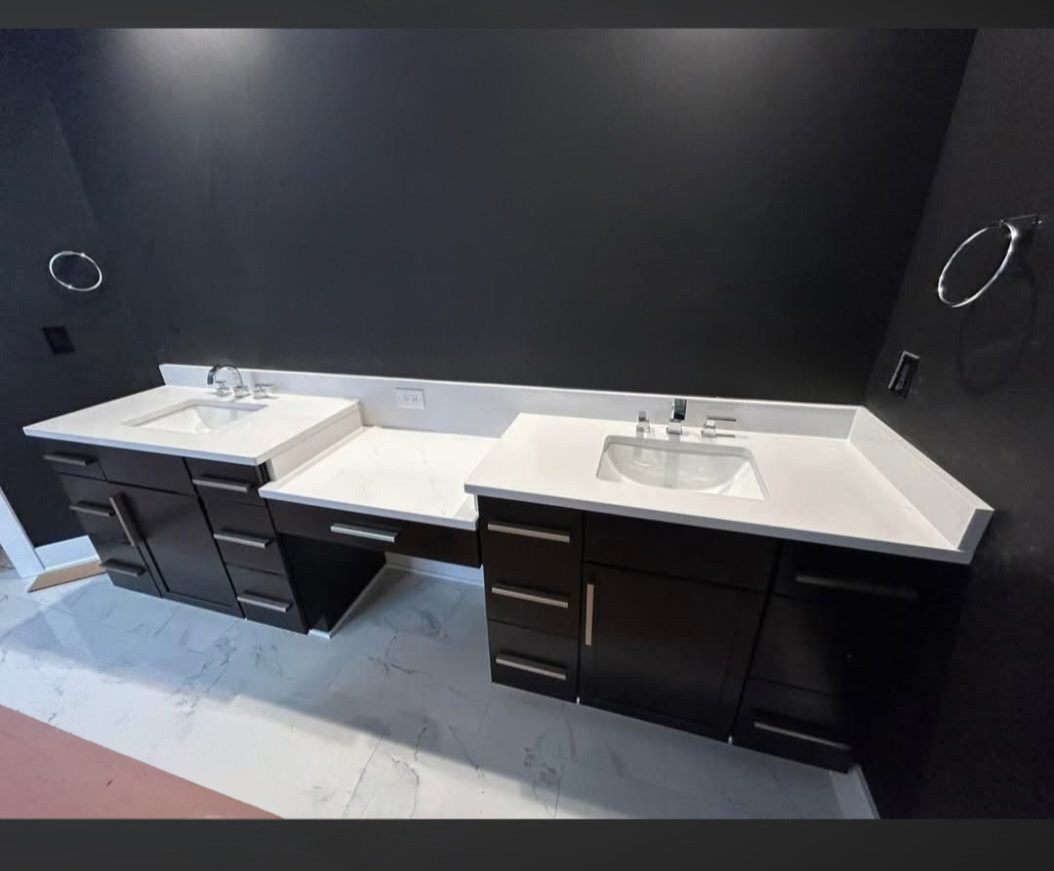
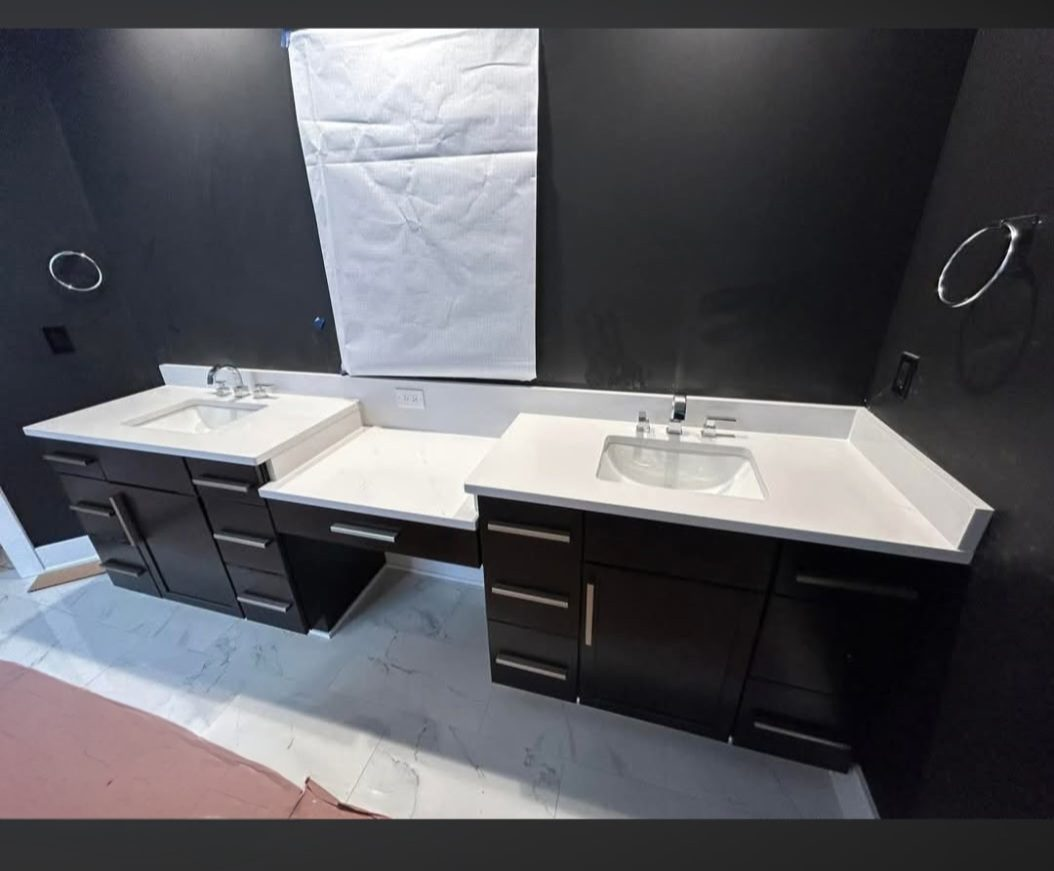
Add files via upload

Changed region(s): [[0.2429, 0.031, 0.6983, 0.465], [0.0, 0.713, 0.3643, 0.961], [0.8501, 0.403, 0.8805, 0.434]]

diff --git a/cgc/source/index.html b/cgc/source/index.html
@@ -964,9 +964,9 @@
         </h1>
         <p class="lede">
           A full-service natural-stone supplier on Carnegie Avenue in Cleveland, Ohio &mdash; just
-          minutes from Progressive Field and Rocket Arena. We hand-select slabs from around the
-          world, fabricate them in house, and install them ourselves &mdash; the same way
-          we&rsquo;ve done it for over thirty-five years.
+          minutes from Progressive Field and Rocket Arena. We hand-select every slab, fabricate it
+          in house, and install it ourselves &mdash; the same way we&rsquo;ve done it for over
+          thirty-five years.
         </p>
         <div class="actions">
           <a href="#projects" class="btn btn-primary">View Projects <span class="arrow">→</span></a>
@@ -1029,7 +1029,7 @@
           <h2>Selected, <span class="light">fabricated,</span> installed.</h2>
         </div>
         <p class="desc">
-          Every step under one roof. We hand-pick every slab from suppliers around the world.
+          Every step under one roof. We hand-pick every slab ourselves.
           Stone is cut and finished by our shop fabricators on Carnegie Avenue, then delivered
           and installed by our installation crews — kitchens, vanities, fireplace surrounds,
           and commercial scope, in steady rotation.
@@ -1067,9 +1067,9 @@
         <div class="text">
           <div class="step">Selection</div>
           <h3>Over fifty stones, stocked in our warehouse.</h3>
-          <p>Granite, marble, slate, onyx, limestone, and quartzite — sourced from around the world
-          and stocked on site so you can hand-pick the exact slab. When something out of the
-          ordinary is called for, we go and find it.</p>
+          <p>Granite, marble, slate, onyx, limestone, and quartzite — stocked on site so you can
+          hand-pick the exact slab. When something out of the ordinary is called for, we go and
+          find it.</p>
         </div>
       </div>
 
@@ -1190,13 +1190,13 @@
           <h2>One shop. <span class="light">One family.</span> Since 1990.</h2>
           <p>
             Cleveland Granite &amp; Marble is a family-run, full-service supplier of natural stone.
-            From our Carnegie Avenue showroom and fabrication shop, we&rsquo;ve been importing,
-            cutting, and installing stone for Cleveland homeowners, designers, builders, and
-            architects for over thirty-five years.
+            From our Carnegie Avenue showroom and fabrication shop, we&rsquo;ve been cutting and
+            installing stone for Cleveland homeowners, designers, builders, and architects for
+            over thirty-five years.
           </p>
           <p>
             We hand-pick every slab ourselves &mdash; granite, marble, slate, onyx, limestone,
-            quartzite, and engineered quartz &mdash; from suppliers around the world. Our shop
+            quartzite, and engineered quartz. Our shop
             fabricators cut and finish each piece on the floor of our Carnegie Avenue shop; our
             installation crews then bring it to your home and set it themselves. Most of our
             team has been with us for years &mdash; the same people you&rsquo;ll meet in the
@@ -1227,8 +1227,7 @@
         </div>
         <p class="desc">
           A few words from homeowners and remodeling contractors who&rsquo;ve worked with us
-          recently. Real reviews, pulled from Google. The names — Kim, Kevin, Jovan, Mike, Rich,
-          Carlos — are the same crew who&rsquo;ll handle your project.
+          recently. Real reviews, pulled from Google.
         </p>
       </div>
 
@@ -1248,39 +1247,39 @@
             professional as you can get. The installers were absolutely meticulous in making sure
             the installation was perfect — and they were personable too.
           </blockquote>
-          <cite>Vicki<span class="meta">Google · 2023</span></cite>
+          <cite>Homeowner<span class="meta">Google · 2023</span></cite>
         </figure>
 
         <figure class="testimonial reveal">
           <div class="stars">★ ★ ★ ★ ★</div>
           <blockquote>
             I wish everybody I worked with was as professional, precise, personable and pleasant.
-            Kim could not have been more attentive, Kevin is an actual artist and Jovan did
-            impeccable work as well. The best price out of any of our estimates. Other contractors
-            came in and complimented the waterfall, miters and seams.
+            The owner could not have been more attentive, the fabricator is an actual artist and
+            the installer did impeccable work as well. The best price out of any of our estimates.
+            Other contractors came in and complimented the waterfall, miters and seams.
           </blockquote>
-          <cite>Lisa Hersh<span class="meta">Google · 2023</span></cite>
+          <cite>Homeowner<span class="meta">Google · 2023</span></cite>
         </figure>
 
         <figure class="testimonial reveal">
           <div class="stars">★ ★ ★ ★ ★</div>
           <blockquote>
-            Mike and Rich were so professional, neat, and personable. Customer service was way
-            above standard. Kim is so fair in her pricing — beat out the big box stores. Her workers
-            have been with her for years, because she treats them like family.
+            The installers were so professional, neat, and personable. Customer service was way
+            above standard. The owner is so fair in her pricing — beat out the big box stores. Her
+            workers have been with her for years, because she treats them like family.
           </blockquote>
-          <cite>The Warners<span class="meta">Google · 2024</span></cite>
+          <cite>Homeowner<span class="meta">Google · 2024</span></cite>
         </figure>
 
         <figure class="testimonial reveal">
           <div class="stars">★ ★ ★ ★ ★</div>
           <blockquote>
-            Kim was awesome and held the countertop material we&rsquo;d selected for months, and
-            when we were finally able to get it installed, everything couldn&rsquo;t have gone
-            smoother. Kim is a gem, so helpful and friendly, and so were the installers. Excellent
+            The owner was awesome and held the countertop material we&rsquo;d selected for months,
+            and when we were finally able to get it installed, everything couldn&rsquo;t have gone
+            smoother. She was a gem, so helpful and friendly, and so were the installers. Excellent
             selection, prices, and especially top-notch service.
           </blockquote>
-          <cite>Brandon Randall<span class="meta">Google · 2024</span></cite>
+          <cite>Homeowner<span class="meta">Google · 2024</span></cite>
         </figure>
 
         <figure class="testimonial reveal">
@@ -1291,7 +1290,7 @@
             installation and excellent people. Our customers always come back excited about their
             selection.
           </blockquote>
-          <cite>Laura Linn-Wallace<span class="meta">Google · 2025</span></cite>
+          <cite>Remodeling Contractor<span class="meta">Google · 2025</span></cite>
         </figure>
 
         <figure class="testimonial reveal">
@@ -1301,7 +1300,7 @@
             pricing, prompt, responsive. I would use them again for future projects. Five stars
             all around.
           </blockquote>
-          <cite>Kwitka Anderson<span class="meta">Google · 2024</span></cite>
+          <cite>Homeowner<span class="meta">Google · 2024</span></cite>
         </figure>
       </div>
     </div>
@@ -1401,8 +1400,8 @@
     <div class="foot-grid">
       <div class="brand-block">
         <a href="#top" class="brand">Cleveland Granite <span class="amp">&amp;</span> Marble</a>
-        <p>Bespoke granite, marble, quartzite, and engineered stone — imported, fabricated, and
-        installed in Cleveland since 1990.</p>
+        <p>Bespoke granite, marble, quartzite, and engineered stone — fabricated and installed in
+        Cleveland since 1990.</p>
       </div>
       <div>
         <h4>Visit</h4>